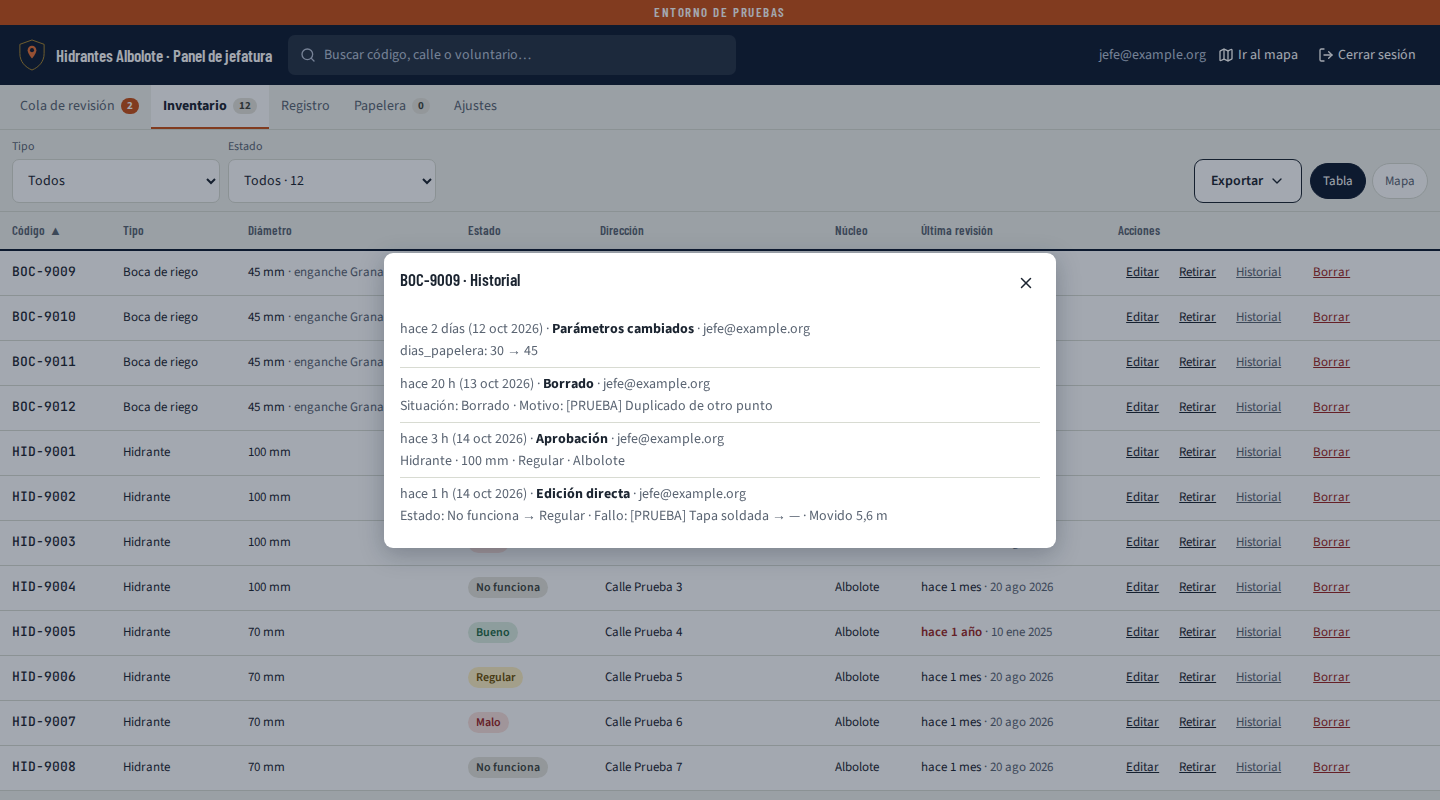
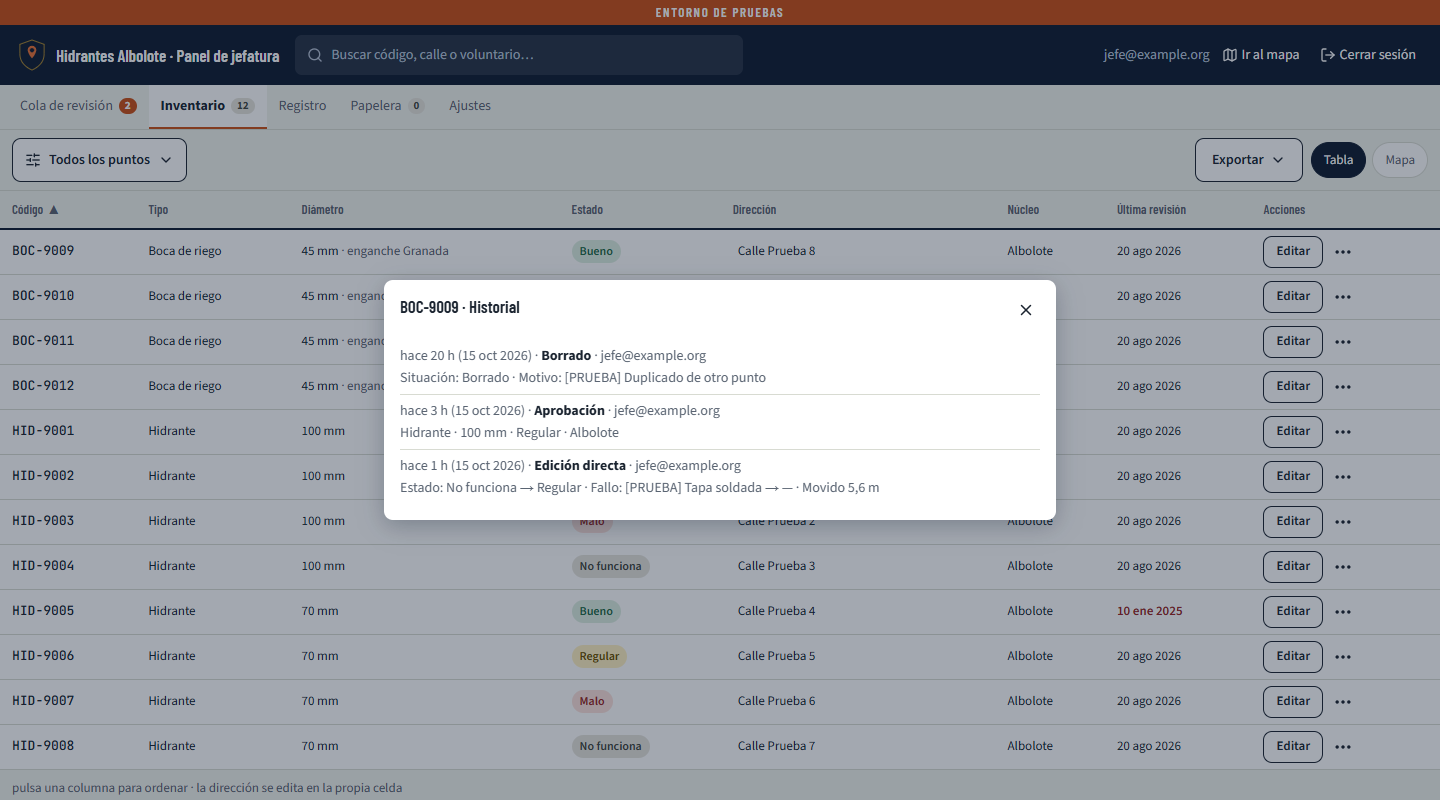
docs(panel): manual 13 v0.5, AC-179 a AC-184 y capturas del panel en el móvil (docs/38 RV-511) (#805)
* feat(panel): Ajustes ordenado y en columnas, con cada administrador en una fila clara (docs/38 RV-509)

Ajustes se lee de arriba abajo en el móvil y en dos o tres columnas en pantallas grandes, sin huecos. Cada
administrador dice si tiene acceso, quién lo añadió y, si eres tú, «Tú»; quitar o devolver el acceso está en
«⋯». «Añadir» explica por qué no se puede tocar hasta escribir un correo, y los últimos pedidos de
Mantenimiento llevan su estado en una etiqueta.

Closes #789
Closes #753

* fix(panel): el foco vuelve al «⋯» también al confirmar o si quitar el acceso falla

* fix(panel): el buscador y las casillas de avisos, fáciles de tocar en todos los anchos (docs/38 RV-510)

El buscador de la cabecera tiene ya el alto de un dedo en el móvil y la tableta, y las casillas de Avisos para
jefatura se pueden marcar con el ratón sin afinar. Además, una prueba nueva repasa las cinco pestañas en seis
anchos para que nada se salga, se corte o quede pequeño.

Closes #790
Closes #754

* test(panel): las pruebas de anchos miran también dentro de cada pestaña y un «…» suelto

* docs(panel): manual 13 v0.5, AC-179 a AC-184 y los mockups de docs/38 en el índice (docs/38 RV-511)

* docs(panel): capturas del panel por anchos y del móvil, con Ajustes y la Papelera completos (docs/38 RV-511)

Closes #791

* docs(panel): AC-180 y AC-181 citan FL-22 y FL-24; las capturas salen de este PR

* test(panel): Exportar con flechas espera a que el menú tenga el foco antes de la segunda
[…]

diff --git a/e2e/listas-anchos.spec.ts b/e2e/listas-anchos.spec.ts
@@ -8,7 +8,7 @@ import type { NodeResult, Result } from 'axe-core';
 import { expect, test, type Page } from '@playwright/test';
 import { T } from '../src/lib/textos.ts';
 import { abrirFiltros } from './ayudas.ts';
-import { jefatura, REGISTRO } from './panel-simulado.ts';
+import { jefatura, PANEL_COMPLETO, REGISTRO } from './panel-simulado.ts';
 
 test.describe.configure({ timeout: 120_000 });
 test.skip(({ isMobile }) => isMobile, 'en el proyecto de escritorio, con el ancho a mano (como anchos.spec.ts)');
@@ -17,44 +17,6 @@ const CARGA = 15_000;
 const ANCHOS = [360, 412, 820, 1100, 1280, 1920] as const;
 const PESTANAS = ['cola', 'inventario', 'registro', 'papelera', 'ajustes'] as const;
 
-const hace = (h: number) => new Date(Date.now() - h * 3_600_000).toISOString();
-
-/** Lo que falta en el panel simulado de siempre: la papelera con puntos y lo que lee Ajustes. */
-const EXTRA = {
-  // Más de una página (50 por página): los botones de página también se miden.
-  v_registro: Array.from({ length: 60 }, (_, i) => ({ ...REGISTRO[i % REGISTRO.length], id: i + 1 })),
-  puntos: [
-    { id: 'b1', codigo: 'BOC-0042', tipo: 'boca_riego', diametro_mm: 45, borrado_en: hace(48) },
-    { id: 'b2', codigo: 'HID-0108', tipo: 'hidrante', diametro_mm: 80, borrado_en: hace(29 * 24 + 2) },
-  ],
-  config: [
-    { clave: 'codigo_acceso', valor: '482917' },
-    { clave: 'codigo_acceso_cambiado_en', valor: '2026-09-02T10:00:00Z' },
-    { clave: 'codigo_acceso_cambiado_por', valor: 'jefe@example.org' },
-    { clave: 'meses_revision', valor: 12 },
-    { clave: 'radio_duplicado_m', valor: 25 },
-    { clave: 'dias_papelera', valor: 30 },
-    { clave: 'buffer_zona_m', valor: 400 },
-    { clave: 'max_subidas_dispositivo_dia', valor: 40 },
-    { clave: 'metros_tramo_manguera', valor: 20 },
-    { clave: 'escala_radios', valor: [11, 9, 7, 5.5, 5] },
-  ],
-  administradores: [
-    { email: 'jefe@example.org', activo: true, creado_en: '2026-08-01T10:00:00Z', creado_por: 'migracion' },
-    {
-      email: 'jefatura-de-pruebas-con-correo-largo@example.org',
-      activo: false,
-      creado_en: '2026-09-03T10:00:00Z',
-      creado_por: 'jefe@example.org',
-    },
-  ],
-  dispositivos: [{ id: 'x1' }, { id: 'x2' }],
-  nucleos: [
-    { nombre: 'Albolote', municipio: 'albolote', manual: false },
-    { nombre: 'Pretel', municipio: 'albolote', manual: true },
-  ],
-};
-
 /** Los textos de la interfaz que acaban en «…» (un botón que abre algo, «Cargando…»): esos no son datos cortados. */
 function textosConPuntos(o: unknown, fuera = new Set<string>()): Set<string> {
   if (typeof o === 'string') {
@@ -62,6 +24,13 @@ function textosConPuntos(o: unknown, fuera = new Set<string>()): Set<string> {
   } else if (o && typeof o === 'object') for (const v of Object.values(o)) textosConPuntos(v, fuera);
   return fuera;
 }
+/** El panel completo y, además, 60 entradas en el Registro: más de una página. */
+const EXTRA = {
+  ...PANEL_COMPLETO,
+  // Más de una página (50 por página): los botones de página también se miden.
+  v_registro: Array.from({ length: 60 }, (_, i) => ({ ...REGISTRO[i % REGISTRO.length], id: i + 1 })),
+};
+
 const INTERFAZ_CON_PUNTOS = [...textosConPuntos(T)];
 
 async function abrir(page: Page, pestana: (typeof PESTANAS)[number]) {

diff --git a/e2e/panel-simulado.ts b/e2e/panel-simulado.ts
@@ -164,6 +164,40 @@ export const REGISTRO = [
   },
 ];
 
+/** Lo que falta en el panel de siempre para verlo entero: la papelera con puntos y lo que lee Ajustes (docs/38). */
+export const PANEL_COMPLETO = {
+  puntos: [
+    { id: 'b1', codigo: 'BOC-0042', tipo: 'boca_riego', diametro_mm: 45, borrado_en: hace(48) },
+    { id: 'b2', codigo: 'HID-0108', tipo: 'hidrante', diametro_mm: 80, borrado_en: hace(29 * 24 + 2) },
+  ],
+  config: [
+    { clave: 'codigo_acceso', valor: '482917' },
+    { clave: 'codigo_acceso_cambiado_en', valor: '2026-09-02T10:00:00Z' },
+    { clave: 'codigo_acceso_cambiado_por', valor: 'jefe@example.org' },
+    { clave: 'meses_revision', valor: 12 },
+    { clave: 'radio_duplicado_m', valor: 25 },
+    { clave: 'dias_papelera', valor: 30 },
+    { clave: 'buffer_zona_m', valor: 400 },
+    { clave: 'max_subidas_dispositivo_dia', valor: 40 },
+    { clave: 'metros_tramo_manguera', valor: 20 },
+    { clave: 'escala_radios', valor: [11, 9, 7, 5.5, 5] },
+  ],
+  administradores: [
+    { email: 'jefe@example.org', activo: true, creado_en: '2026-08-01T10:00:00Z', creado_por: 'migracion' },
+    {
+      email: 'jefatura-de-pruebas-con-correo-largo@example.org',
+      activo: false,
+      creado_en: '2026-09-03T10:00:00Z',
+      creado_por: 'jefe@example.org',
+    },
+  ],
+  dispositivos: [{ id: 'x1' }, { id: 'x2' }],
+  nucleos: [
+    { nombre: 'Albolote', municipio: 'albolote', manual: false },
+    { nombre: 'Pretel', municipio: 'albolote', manual: true },
+  ],
+};
+
 /** Jefatura con el panel simulado; `tablas` añade o sustituye tablas (la papelera, los administradores…). */
 export async function jefatura(page: Page, tablas: Parameters<typeof simularTablas>[1] = {}) {
   await conGoogle(page, 'jefe@example.org');

diff --git a/e2e/vistas.spec.ts b/e2e/vistas.spec.ts
@@ -8,7 +8,7 @@ import { T } from '../src/lib/textos.ts';
 import { SUPABASE_PRUEBAS } from '../playwright.config.ts';
 import { abrirFiltros, conGoogle, conSesion, simularRpc, accionInventario } from './ayudas.ts';
 import { LISTADO, PUNTOS } from './puntos.ts';
-import { jefatura } from './panel-simulado.ts';
+import { jefatura, PANEL_COMPLETO } from './panel-simulado.ts';
 
 const [P0, P1] = PUNTOS;
 const hace = (h: number) => new Date(Date.now() - h * 3_600_000).toISOString();
@@ -360,7 +360,7 @@ for (const tema of ['claro', 'oscuro'] as const) {
       test.skip(!!isMobile, 'en escritorio, con el ancho a mano');
       await page.setViewportSize({ width: ancho, height: ancho < 768 ? 915 : 900 });
       await page.emulateMedia({ colorScheme: tema === 'oscuro' ? 'dark' : 'light' });
-      await jefatura(page);
+      await jefatura(page, PANEL_COMPLETO);
       for (const pestana of PESTANAS_PANEL) {
         await page.goto(`/admin/${pestana}`);
         await expect(page.getByRole('main').getByText(T.panelCola.cargando)).toHaveCount(0);

diff --git a/e2e/ayudas.ts b/e2e/ayudas.ts
@@ -1,6 +1,6 @@
 // Ayudas de los e2e: sesión guardada y un Supabase simulado con page.route.
 
-import type { Page, Route } from '@playwright/test';
+import { expect, type Page, type Route } from '@playwright/test';
 import { SUPABASE_PRUEBAS } from '../playwright.config.ts';
 import { T } from '../src/lib/textos.ts';
 
@@ -162,6 +162,8 @@ export async function filtrarPor(page: Page, grupo: string, opcion: string | Reg
   await abrirFiltros(page);
   await elegirFiltro(page, grupo, opcion);
   await page.getByRole('button', { name: T.panel.listo, exact: true }).click();
+  // El foco vuelve al botón de filtros un frame después: se espera, para que no se lo quite a lo siguiente.
+  await expect(page.getByRole('button', { name: /^Filtros: / })).toBeFocused();
 }
 
 /**

diff --git a/e2e/panel-inventario.spec.ts b/e2e/panel-inventario.spec.ts
@@ -582,7 +582,9 @@ test('Exportar ▾: menú con flechas, Esc y tocar fuera; exporta lo filtrado (R
   await elegirTipo(page, T.mapa.hidrantes);
   await elegirEstado(page, T.formulario.malo);
   await boton.focus();
+  // Flecha arriba abre en la última; la segunda, cuando el menú ya tiene el foco (si no, la recibe el botón).
   await page.keyboard.press('ArrowUp');
+  await expect(menu.getByRole('menuitem', { name: T.panel.inventarioCompletoJson })).toBeFocused();
   await page.keyboard.press('ArrowUp');
   await expect(menu.getByRole('menuitem', { name: T.panel.geojson })).toBeFocused();
   const descarga = page.waitForEvent('download');

diff --git a/docs/13-manual-jefatura.md b/docs/13-manual-jefatura.md
@@ -3,7 +3,7 @@
 | | |
 |---|---|
 | **Estado** | **Borrador, se revisa tras el piloto** (DEC-041, `docs/31` RV-139). |
-| **Versión** | 0.4 — 15 de octubre de 2026 (`docs/37` RV-496): §8, activar los avisos técnicos antes del piloto, porque vienen apagados (DEC-202); §10, la rutina de antes del piloto (entrar en el panel, volver a entrar en los demás dispositivos, DEC-206, y activar los avisos). El día del lanzamiento (RV-491) y `OTRA_CUENTA` (RV-493) ya estaban en §8 y §2. 0.3 — 14 de octubre de 2026 (`docs/36` RV-480): tras unir la cuenta de jefatura hay que volver a entrar una vez en los otros dispositivos, qué quiere decir «Esta cuenta tiene otra identidad unida» y el aviso de una cuenta desunida (DEC-206). 0.2 — 13 de octubre de 2026 (`docs/35`), aprobada por el desarrollador al pedir el cambio: el código nuevo revocando ya no abre la entrada solo; revocar los móviles que han entrado desde una hora (DEC-201); quitar el acceso a un administrador pide confirmación (RV-431) y cada administrador queda unido a su cuenta de Google al entrar (DEC-197). 0.1 — 7 de octubre de 2026. Primer borrador completo, con el panel de la versión 0.9 (cinco pestañas) y las capturas de `capturas/vistas/`. |
+| **Versión** | 0.5 — 16 de octubre de 2026 (`docs/38` RV-511): el panel en el móvil y la tableta: §3, las pestañas en ☰, la lupa y el punto naranja; §4, el botón de filtros y la barra de lote solo con algo marcado; §5, filtrar y ordenar desde un botón, tocar la fila abre Editar y «⋯» lleva lo demás, «＋ Añadir dirección»; §6, el filtro del Registro y «Tú»; §7, «Purgar lo caducado…» en rojo; §8, el orden de las tarjetas y Administradores con su etiqueta y «⋯». 0.4 — 15 de octubre de 2026 (`docs/37` RV-496): §8, activar los avisos técnicos antes del piloto, porque vienen apagados (DEC-202); §10, la rutina de antes del piloto (entrar en el panel, volver a entrar en los demás dispositivos, DEC-206, y activar los avisos). El día del lanzamiento (RV-491) y `OTRA_CUENTA` (RV-493) ya estaban en §8 y §2. 0.3 — 14 de octubre de 2026 (`docs/36` RV-480): tras unir la cuenta de jefatura hay que volver a entrar una vez en los otros dispositivos, qué quiere decir «Esta cuenta tiene otra identidad unida» y el aviso de una cuenta desunida (DEC-206). 0.2 — 13 de octubre de 2026 (`docs/35`), aprobada por el desarrollador al pedir el cambio: el código nuevo revocando ya no abre la entrada solo; revocar los móviles que han entrado desde una hora (DEC-201); quitar el acceso a un administrador pide confirmación (RV-431) y cada administrador queda unido a su cuenta de Google al entrar (DEC-197). 0.1 — 7 de octubre de 2026. Primer borrador completo, con el panel de la versión 0.9 (cinco pestañas) y las capturas de `capturas/vistas/`. |
 | **Para** | Jefatura y los administradores del panel. |
 | **Se apoya en** | 02 (los pasos, FL-20 a FL-38), 01 (las reglas), 11 (datos personales) y 15 (qué hacer si algo falla). Si este manual y esos documentos dicen cosas distintas, mandan ellos, y este manual se corrige. |
 
@@ -65,6 +65,15 @@ Cinco pestañas: **Cola de revisión**, **Inventario**, **Registro**, **Papelera
 revisión, Inventario y Papelera llevan al lado cuántas cosas tienen. La búsqueda de arriba encuentra por código, calle
 o voluntario.
 
+**En el móvil** (menos de 768 px de ancho) no hay fila de pestañas: la cabecera dice en qué pestaña estás, y las
+pestañas, con sus números, están en el menú **☰** de arriba a la derecha. Si hay propuestas pendientes y estás en otra
+pestaña, el ☰ lleva un **punto naranja**. La búsqueda está detrás de la **lupa**; la ✕ la cierra y borra lo escrito.
+
+![El menú ☰ del panel en el móvil](capturas/vistas/panel-movil-menu.png)
+
+En la tableta y el ordenador las pestañas siguen arriba. Las listas se leen igual en todos los tamaños: en el móvil y
+la tableta, una fila de tres líneas por elemento; en el ordenador (desde 1.100 px), la tabla.
+
 ## 4. Cola de revisión
 
 ![Cola de revisión](capturas/vistas/panel-cola.png)
@@ -87,27 +96,31 @@ A la izquierda, las propuestas; a la derecha, la elegida:
 - Si el punto cambió después de la propuesta, el botón pasa a *Confirmar y aprobar* y el panel lo
   explica.
 
-**En bloque:** marca las casillas (o *todas*) → **Aprobar seleccionadas**. Lo típico: filtrar por
-*revisiones* («sigue igual») y aprobarlas de golpe. El panel dice cuántas se aprobaron y cuáles se
-quedaron fuera, y por qué.
+**En bloque:** marca las casillas (o *todas*) y aparece la barra de lote con **Aprobar seleccionadas**: abajo en el
+móvil y la tableta, arriba en el ordenador. Sin nada marcado no hay barra. Lo típico: filtrar por *revisiones* («sigue
+igual») y aprobarlas de golpe. El panel dice cuántas se aprobaron y cuáles se quedaron fuera, y por qué.
 
-**Historial:** los botones *Aprobadas*, *Rechazadas* y *Retiradas por el autor* enseñan lo ya
-decidido, en solo lectura, con quién y por qué.
-
-Los filtros de arriba a la derecha separan por operación y por núcleo.
+**Filtros:** el botón de filtros de arriba (dice lo que está elegido, por ejemplo «Pendientes · Alta») abre una hoja
+con **Estado** (*Pendientes*, *Aprobadas*, *Rechazadas*, *Retiradas por el autor*: las ya decididas, en solo lectura,
+con quién y por qué), **Operación** y **Núcleo**. *Quitar filtros* lo deja todo como al principio; *Listo* cierra.
 
 ## 5. Inventario
 
 ![Inventario](capturas/vistas/panel-inventario.png)
 
-- **Tipo** y **Estado** filtran; cada columna se ordena tocando su título. *Última revisión* en rojo
-  («hace 1 año») es lo caducado: lo que conviene mandar a revisar.
+- **Filtrar y ordenar:** el botón de arriba abre una hoja con **Tipo**, **Estado** (con cuántos puntos hay de cada uno)
+  y, en el móvil y la tableta, **Ordenar por** (tocar otra vez el elegido cambia ▲ / ▼). En el ordenador se ordena
+  tocando el título de cada columna. La revisión en rojo («hace 1 año») es lo caducado: lo que conviene mandar a revisar.
+
+  ![Filtrar y ordenar en el móvil](capturas/vistas/panel-movil-filtros.png)
+
 - **Tabla** o **Mapa**, a la derecha.
 - **Exportar ▾**: Excel, CSV o GeoJSON, con los filtros aplicados. El archivo se genera en tu
   navegador. Para bomberos o el ayuntamiento. Queda en el Registro. La cuarta opción,
   **Inventario completo (JSON)**, descarga todo sin filtros, como copia de consulta.
 
-**Sobre cada punto:**
+**Sobre cada punto:** en el móvil y la tableta, **tocar la fila abre Editar**, y el **«⋯»** de la fila lleva
+*Historial*, *Retirar* y *Borrar*. En el ordenador, cada fila tiene **Editar** y **«⋯»** con lo mismo.
 
 - **Editar:** se abre al lado (a pantalla completa en el móvil), con el mapa y lo que cambias
   marcado. Puedes mover el punto y cambiar diámetro, enganche, estado, fallo, dirección y
@@ -120,7 +133,7 @@ Los filtros de arriba a la derecha separan por operación y por núcleo.
 
 - **Borrar:** el punto nunca debió existir (un error, un duplicado). Pide motivo y va a la
   **Papelera**.
-- **Dirección:** se escribe en la propia celda («— pendiente, escribe aquí»).
+- **Dirección:** se escribe en la propia celda, sin abrir Editar. Si falta, la celda dice **«＋ Añadir dirección»**.
 
 **Retirar o borrar:** si el hidrante estaba y lo quitaron, *Retirar*. Si nunca existió, *Borrar*.
 
@@ -128,18 +141,24 @@ Los filtros de arriba a la derecha separan por operación y por núcleo.
 
 ![Registro](capturas/vistas/panel-registro.png)
 
-Todo lo que se ha hecho: cuándo, quién, qué acción, sobre qué punto y qué cambió. Se filtra por tipo
-de acción. **No se puede editar ni borrar.** Sirve para responder a «¿quién cambió esto y cuándo?».
+Todo lo que se ha hecho: cuándo, quién, qué acción, sobre qué punto y qué cambió. El botón de filtros de arriba
+(«Todas las acciones») deja elegir una acción, por ejemplo *Borrado*. Lo que hiciste tú dice **«Tú»** en vez de tu
+correo. **No se puede editar ni borrar.** Sirve para responder a «¿quién cambió esto y cuándo?».
 
 ## 7. Papelera
 
 Los puntos borrados se guardan los días que diga *Ajustes → Parámetros → Días de papelera* (30 por
-defecto). **Restaurar** los devuelve al mapa. Pasado ese plazo se purgan solos; *Purgar lo
-caducado…* lo hace ya, y **no se puede deshacer**.
+defecto). **Restaurar** los devuelve al mapa; si a uno le queda un día, sale en rojo. Pasado ese plazo se purgan
+solos; **Purgar lo caducado…**, el botón rojo de arriba, apartado de los *Restaurar*, lo hace ya, y **no se puede
+deshacer**.
 
 ## 8. Ajustes
 
 ![Ajustes del panel](capturas/vistas/panel-ajustes.png)
+
+Las tarjetas van en este orden: Código de acceso, Acceso de administradores, Salud del sistema, Avisos para jefatura,
+Parámetros, Núcleos, Mantenimiento, Código QR del enlace y Novedades. En el móvil, una debajo de otra; en el ordenador,
+en dos o tres columnas.
 
 ### Código de acceso
 
@@ -184,8 +203,10 @@ y la hora. Cambia también el código si el que se filtró sigue en vigor.
 
 ### Acceso de administradores
 
-Escribe el correo y **Añadir**; para quitar a alguien, apaga su interruptor y confírmalo en
-**Quitar el acceso** (si eres tú, saldrás del panel). Tiene que quedar al menos un administrador con
+Cada administrador sale con su correo (el tuyo, con **«Tú»**), una etiqueta (**Activo**, **Pendiente de su primer
+acceso** o **Sin acceso**) y quién lo añadió. Escribe el correo y **Añadir** (hasta que no escribes un correo, el botón
+no se puede tocar y lo dice debajo). Para quitar a alguien, **«⋯» → Quitar el acceso…** y confírmalo (si eres tú,
+saldrás del panel); para devolverlo, **«⋯» → Devolver el acceso**. Tiene que quedar al menos un administrador con
 acceso. Quien acabas de añadir queda unido a su cuenta de Google la primera vez que entra en el panel,
 y tendrá que volver a entrar una vez en sus otros dispositivos (apartado 2). No hace falta tocar nada
 técnico. La comprobación diaria revisa estas uniones: si una cuenta deja de ser de una sola persona, la

diff --git a/docs/10-matriz-aceptacion.md b/docs/10-matriz-aceptacion.md
@@ -3,7 +3,7 @@
 | | |
 |---|---|
 | **Estado** | Vivo. Se amplía cuando aparece un caso nuevo; los resultados se anotan por recorrido. |
-| **Versión** | 1.8 — 15 oct 2026 (`docs/38` RV-501, aprobada por el desarrollador al pedir el cambio (`docs/38`)): AC-90 y AC-169 con el botón de filtros y el pie «N puntos con este filtro». 1.7 — 15 oct 2026 (`docs/37` RV-494): AC-102, la casilla de abrir la entrada sale sin marcar; §M, AC-172 a AC-178 con lo que cambió en `docs/35` y `docs/36` y la entrada del lanzamiento desde una wifi (RV-491, DEC-211). 1.6 — 14 oct 2026 (`docs/35` RV-414): AC-103 con la confirmación al quitar el acceso (RV-431) y el primer acceso unido a Google (DEC-197). 1.5 — 23 de septiembre de 2026: §K, AC-150 a AC-156 de las funciones de mapa para emergencias (DEC-089), y §L, un caso para cada FR que no tenía (docs/18 GM-00). 1.4 — 22 de septiembre de 2026: AC-140 pasa a comprobarse sola (`e2e/controles.spec.ts`). v1.3: anotados los cuatro casos técnicos que ya están comprobados (AC-110, AC-114, AC-115, AC-116); el resto los recorre jefatura. v1.2 — 17 de septiembre de 2026. v1.1 añadió la sección I; v1.2 añade la J (reglas de interfaz, textos y concurrencia). |
+| **Versión** | 1.8 — 15 oct 2026 (`docs/38` RV-501, aprobada por el desarrollador al pedir el cambio (`docs/38`)): AC-90 y AC-169 con el botón de filtros y el pie «N puntos con este filtro»; §N, AC-179 a AC-184, el panel en el móvil (RV-511). 1.7 — 15 oct 2026 (`docs/37` RV-494): AC-102, la casilla de abrir la entrada sale sin marcar; §M, AC-172 a AC-178 con lo que cambió en `docs/35` y `docs/36` y la entrada del lanzamiento desde una wifi (RV-491, DEC-211). 1.6 — 14 oct 2026 (`docs/35` RV-414): AC-103 con la confirmación al quitar el acceso (RV-431) y el primer acceso unido a Google (DEC-197). 1.5 — 23 de septiembre de 2026: §K, AC-150 a AC-156 de las funciones de mapa para emergencias (DEC-089), y §L, un caso para cada FR que no tenía (docs/18 GM-00). 1.4 — 22 de septiembre de 2026: AC-140 pasa a comprobarse sola (`e2e/controles.spec.ts`). v1.3: anotados los cuatro casos técnicos que ya están comprobados (AC-110, AC-114, AC-115, AC-116); el resto los recorre jefatura. v1.2 — 17 de septiembre de 2026. v1.1 añadió la sección I; v1.2 añade la J (reglas de interfaz, textos y concurrencia). |
 | **Propietario de** | los casos de prueba de aceptación (`AC-nn`). Cada caso cita el requisito que verifica (01, 03). |
 | **Cómo se usa** | Se imprime. Jefatura y 2–3 voluntarios lo recorren en la calle sobre **staging** con el código del piloto, y después sobre producción antes de abrir a los 65. Columna "Resultado": ✓ / ✗ / n.a.; columna "Notas": qué pasó si ✗. |
 
@@ -243,6 +243,20 @@ se ven al recorrer los anteriores: aquí se anotan una vez.
 | AC-176 | Jefatura: cuenta mezclada y otra cuenta | En staging, con un correo de jefatura de prueba: (a) entrar con una cuenta de Google que tiene además otra identidad unida con otro correo; (b) con ese correo ya unido a otro usuario de Auth, entrar con Google | (a) «No autorizado» con «Esta cuenta tiene otra identidad unida…»; no se une (`CUENTA_MEZCLADA`). (b) «No autorizado» con «Este correo de jefatura ya está unido a otra cuenta de Google. Entra con esa, o pide a otro administrador que te quite y te devuelva el acceso.» (`OTRA_CUENTA`). En los dos, la sesión se cierra, no se reintenta solo y no sale ningún correo ajeno; quitar y devolver el acceso deshace la unión | FR-36, FR-37, FR-141 | | DEC-197, DEC-206; `docs/37` RV-493 |
 | AC-177 | Código pegado o sugerido | En Android, copiar el código de WhatsApp y meterlo con el botón del portapapeles del teclado en la primera casilla; en iPhone, tocar la sugerencia «De Mensajes»; meterlo también con «Pegar» en una casilla del medio | En los tres casos el código entra **entero**, una cifra por casilla desde la primera; con cifras de más, el foco se queda en las casillas | FR-30, FR-31 | | `docs/36` RV-470 (DEC-205, nota) |
 | AC-178 | 20 móviles a la vez desde una wifi | Ajustes → «Abrir la entrada para todos (24 h)»; 20 personas en la misma wifi escriben el código y su nombre y pulsan Entrar casi a la vez | Todos entran sin «demasiados intentos». A quien le sale «Mucha gente entrando a la vez», la app lo vuelve a intentar sola con la cuenta atrás y **Cancelar** (como mucho tres veces); Cancelar, o cambiar el código o el nombre, para la espera. Si a la tercera sigue igual, el texto de siempre y Entrar a mano | FR-33, FR-34, TR-41 | | `docs/37` RV-491, DEC-211 |
+
+## N · El panel en el móvil (`docs/38`)
+
+Los e2e de cada caso están en `panel-navegacion`, `panel-cola`, `panel-inventario`, `panel-movil`, `panel-ajustes` y
+`listas-anchos`; aquí se comprueban a mano en un móvil de verdad, en staging.
+
+| ID | Caso | Pasos | Resultado esperado | Verifica | ✓/✗ | Notas |
+|---|---|---|---|---|---|---|
+| AC-179 | Pestañas en ☰ | En un móvil, abrir el panel; tocar ☰; ir a Inventario; con propuestas pendientes, mirar el ☰ | Sin fila de pestañas: la cabecera dice la pestaña («Cola de revisión», luego «Inventario»). El ☰ lista las cinco con sus números y marca la actual; al elegir una, se cierra. Desde otra pestaña, con pendientes, el ☰ lleva el punto naranja (y su nombre lo dice) | FR-100, FR-120 | | DEC-213; RV-503 |
+| AC-180 | Cola: filtrar y aprobar en bloque | Cola → botón de filtros → Operación *Revisión* y un núcleo → Listo; marcar dos → aprobar desde la barra | El botón dice lo elegido («Pendientes · Revisión · …»). Sin nada marcado no hay barra de lote; con dos, abajo, «2 seleccionadas» y Aprobar seleccionadas; tras aprobar, desaparecen de la lista y el panel dice cuántas | FR-101, FR-107, FL-22 | | DEC-214; RV-505 |
+| AC-181 | Inventario en el móvil | Inventario → Filtrar y ordenar → Estado *Malo* y Ordenar por *Dirección* → Listo; tocar un punto; cerrar; «⋯» de otro → Retirar | El botón dice el filtro y el orden; la lista solo tiene malos, por dirección. Tocar la fila abre Editar a pantalla completa. «⋯» lleva Historial, Retirar y Borrar; Retirar pide el motivo. Sin cabeceras de columna ni «…» | FR-120, FL-24 | | DEC-214, DEC-215; RV-506 |
+| AC-182 | Registro | Registro → botón de filtros → *Borrado*; quitar el filtro; buscar una entrada tuya | Solo entradas de borrado; el botón dice «Borrado». Lo que hiciste tú dice «Tú», no tu correo; cada entrada, tres líneas, con el detalle entero | FR-123, FL-26 | | DEC-215; RV-507 |
+| AC-183 | Administradores desde «⋯» | Ajustes → Acceso de administradores → «⋯» de un administrador de prueba activo → Quitar el acceso… → Cancelar; otra vez → Quitar el acceso; «⋯» → Devolver el acceso | La confirmación de siempre; al cancelar, el foco vuelve al «⋯». Tras quitarlo, su etiqueta dice «Sin acceso»; al devolverlo, «Pendiente de su primer acceso». Tu fila dice «Tú» | FR-141, FL-30 | | DEC-215; RV-509 |
+| AC-184 | Nada se sale ni se corta | En un móvil de 360 px (o el navegador a 360 px), recorrer las cinco pestañas | Ninguna se desplaza a lo ancho y ningún dato acaba en «…»; todo lo que se toca mide al menos 44 × 44 | UI-15, UI-17 | | DEC-213; RV-510 (`listas-anchos`) |
 
 ---
 

diff --git a/docs/capturas/vistas/LEEME.md b/docs/capturas/vistas/LEEME.md
@@ -1,6 +1,6 @@
 # Capturas de la CI, para los borradores de 13 y 14
 
-Copiadas el 2026-10-14 del artefacto `vistas` del trabajo `ci-vistas` (`e2e/vistas.spec.ts`,
+Las del voluntario, copiadas el 2026-10-14 del artefacto `vistas` del trabajo `ci-vistas` (`e2e/vistas.spec.ts`,
 docs/21 RV-88), en la CI del PR #690 (`docs/35` RV-433), el último de `develop` que tocó pantallas
 en `docs/35` (RV-414). `nuevo-punto-boca.png` enseña las fotos propias de los enganches, con
 Barcelona y Directo como dice DEC-194. Son de la versión
@@ -8,7 +8,12 @@ actual de la app, con **datos simulados** (`e2e/puntos.ts`): códigos `HID-90nn`
 descripciones `[PRUEBA]`, la voluntaria ficticia «Voluntaria Pruebas» y `jefe@example.org`.
 Ninguna sale de staging ni de producción, y ningún nombre es de nadie (FR-27, DEC-053).
 
-Las del voluntario son a 412 × 915 (Pixel 7); las del panel, a 1280 × 800 o 1440 × 800. Modo claro.
+Las del panel se sustituyeron el 2026-10-16 (`docs/38` RV-511) con `e2e/vistas.spec.ts` del PR #805 (RV-511, sobre el de RV-510, PR #804), con el
+panel simulado de `e2e/panel-simulado.ts` (`PANEL_COMPLETO`): el panel por anchos, con las listas, los filtros en un
+botón y el menú ☰ del móvil.
+
+Las del voluntario son a 412 × 915 (Pixel 7); las del panel, a 1280 × 900 (1440 × 800 el Historial) y las dos del
+móvil, a 412 × 915. Modo claro.
 Están en su carpeta porque `npm run capturas` reescribe `docs/capturas/LEEME.md` y sus diez PNG.
 
 No se editan a mano: si una pantalla cambia, se copian otra vez del artefacto `vistas` del PR que
@@ -24,8 +29,10 @@ la cambie (o se lanza `npx playwright test e2e/vistas.spec.ts` y se copian de `t
 | `nuevo-punto.png` | `nuevo-punto-412-claro` | Nuevo punto: el pin, tipo, caudal / estado y las dos fotos |
 | `nuevo-punto-boca.png` | `nuevo-punto-boca-412-claro` | Nuevo punto de una boca de riego: diámetro y tipo de enganche |
 | `ajustes.png` | `ajustes-412-claro` | Ajustes del voluntario: firma, Mis propuestas, mapa, avisos y novedades |
-| `panel-cola.png` | `panel-cola-1280-claro` | Panel · Cola de revisión: lista, mapa, el cambio marcado y Aprobar / Rechazar |
-| `panel-inventario.png` | `panel-inventario-1280-claro` | Panel · Inventario: filtros de Tipo y Estado, Exportar y acciones por fila |
+| `panel-cola.png` | `panel-cola-1280-claro` | Panel · Cola de revisión: el botón de filtros, la lista de tres líneas, el mapa, el cambio marcado y Aprobar / Rechazar |
+| `panel-inventario.png` | `panel-inventario-1280-claro` | Panel · Inventario: el botón de filtros, Exportar, y Editar y «⋯» en cada fila |
 | `panel-historial.png` | `panel-historial-1440-claro` | Panel · Historial de un punto, con palabras |
-| `panel-registro.png` | `panel-registro-1440-claro` | Panel · Registro: quién hizo qué y qué cambió |
-| `panel-ajustes.png` | `panel-ajustes-1280-claro` | Panel · Ajustes: código de acceso y Salud del sistema |
+| `panel-registro.png` | `panel-registro-1280-claro` | Panel · Registro: el filtro por acción, «Tú» y qué cambió |
+| `panel-ajustes.png` | `panel-ajustes-1280-claro` | Panel · Ajustes en dos columnas: código de acceso, administradores con su etiqueta y «⋯», parámetros |
+| `panel-movil-menu.png` | `panel-menu-412-claro` | Panel en el móvil: el menú ☰ con las pestañas y sus números, y el punto naranja |
+| `panel-movil-filtros.png` | `panel-inventario-filtros-412-claro` | Panel en el móvil: la hoja de Filtrar y ordenar del Inventario |

diff --git a/docs/INDICE.md b/docs/INDICE.md
@@ -26,7 +26,7 @@ pedida por una especificación (DEC-177); la versión vigente es la que dice su 
 | 15 | `15-continuidad-y-emergencias.md` | vivo |
 | 16 | `16-alcance-y-hoja-de-ruta.md` | congelado |
 | 38 | `38-panel-en-el-movil.md` · el panel en el móvil: pestañas en el menú, filtros en un botón y listas más simples (tercera excepción a DEC-193, DEC-212); mockups `mockups/38-panel-*.html`; registro en `verificacion/panel-movil-38.md` | en curso |
-| — | `mockups/` · mockups definitivos que cita un documento vigente: `25-lista.html` (solo §1), `25-ficha.html` y `25-cola.html` y `27-cercanos.html` (solo la versión A), citados por 06; y `33-mejoras.html` («Ahora» y «Propuesta» de cada mejora de `docs/33`), citado por 12. `29-inventario-y-editar.html` está archivado | vivo |
+| — | `mockups/` · mockups definitivos que cita un documento vigente: `25-lista.html` (solo §1), `25-ficha.html` y `25-cola.html` y `27-cercanos.html` (solo la versión A), citados por 06; y `33-mejoras.html` («Ahora» y «Propuesta» de cada mejora de `docs/33`), citado por 12; y `38-panel-cola.html`, `38-panel-inventario.html`, `38-panel-registro.html`, `38-panel-papelera.html` y `38-panel-ajustes.html` («Propuesta» de cada pantalla), citados por 06. `29-inventario-y-editar.html` está archivado | vivo |
 | — | `trabajo-en-paralelo.md` · cómo repartir una especificación grande entre tres sesiones de Claude Code (Ops, Backend, Frontend), y PAR-01 (DEC-100) | vivo |
 | — | `entornos.md` · lo que dejó el arranque (refs, buckets, secretos por nombre) | vivo |
 | — | `verificacion/fase-N.md` · qué se ejecutó al cerrar cada fase y con qué resultado | vivo |

diff --git a/docs/verificacion/panel-movil-38.md b/docs/verificacion/panel-movil-38.md
@@ -120,3 +120,11 @@ workflows. Una sola sesión, en el orden de §0.2.
   `vistas.spec.ts` pasa a `e2e/panel-simulado.ts` (`jefatura(page, tablas)`), que usan las dos. `vistas.spec.ts`: las
   cinco pestañas a 412, 820, 1.280 y 1.920 px en claro y en oscuro y, a 412, las hojas de filtros de Cola e Inventario,
   el menú ☰ y el «⋯» de una fila (sustituyen a las vistas sueltas de Cola, Inventario y Ajustes).
+- **RV-511:** 13 v0.5 (§3 el ☰, la lupa y el punto naranja; §4 el botón de filtros y la barra de lote solo con algo
+  marcado; §5 Filtrar y ordenar, tocar la fila abre Editar, «⋯» y «＋ Añadir dirección»; §6 el filtro del Registro y
+  «Tú»; §7 «Purgar lo caducado…» en rojo; §8 el orden de las tarjetas y Administradores con su etiqueta y «⋯»); 10, §N
+  con AC-179 a AC-184 (la cola en bloque verifica FR-101 y FR-107: FR-121 está retirado); INDICE, los cinco mockups de
+  docs/38 en la fila de `mockups/`. Capturas: `panel-cola`, `panel-inventario`, `panel-registro`, `panel-historial` y
+  `panel-ajustes` sustituidas, y `panel-movil-menu` y `panel-movil-filtros` nuevas (enlazadas desde 13 §3 y §5), con
+  `vistas.spec.ts` sobre `PANEL_COMPLETO` (la papelera y lo que lee Ajustes, que pasa de `listas-anchos.spec.ts` a
+  `e2e/panel-simulado.ts`: sin él, Ajustes salía con errores de carga en las capturas); `LEEME.md` al día.
